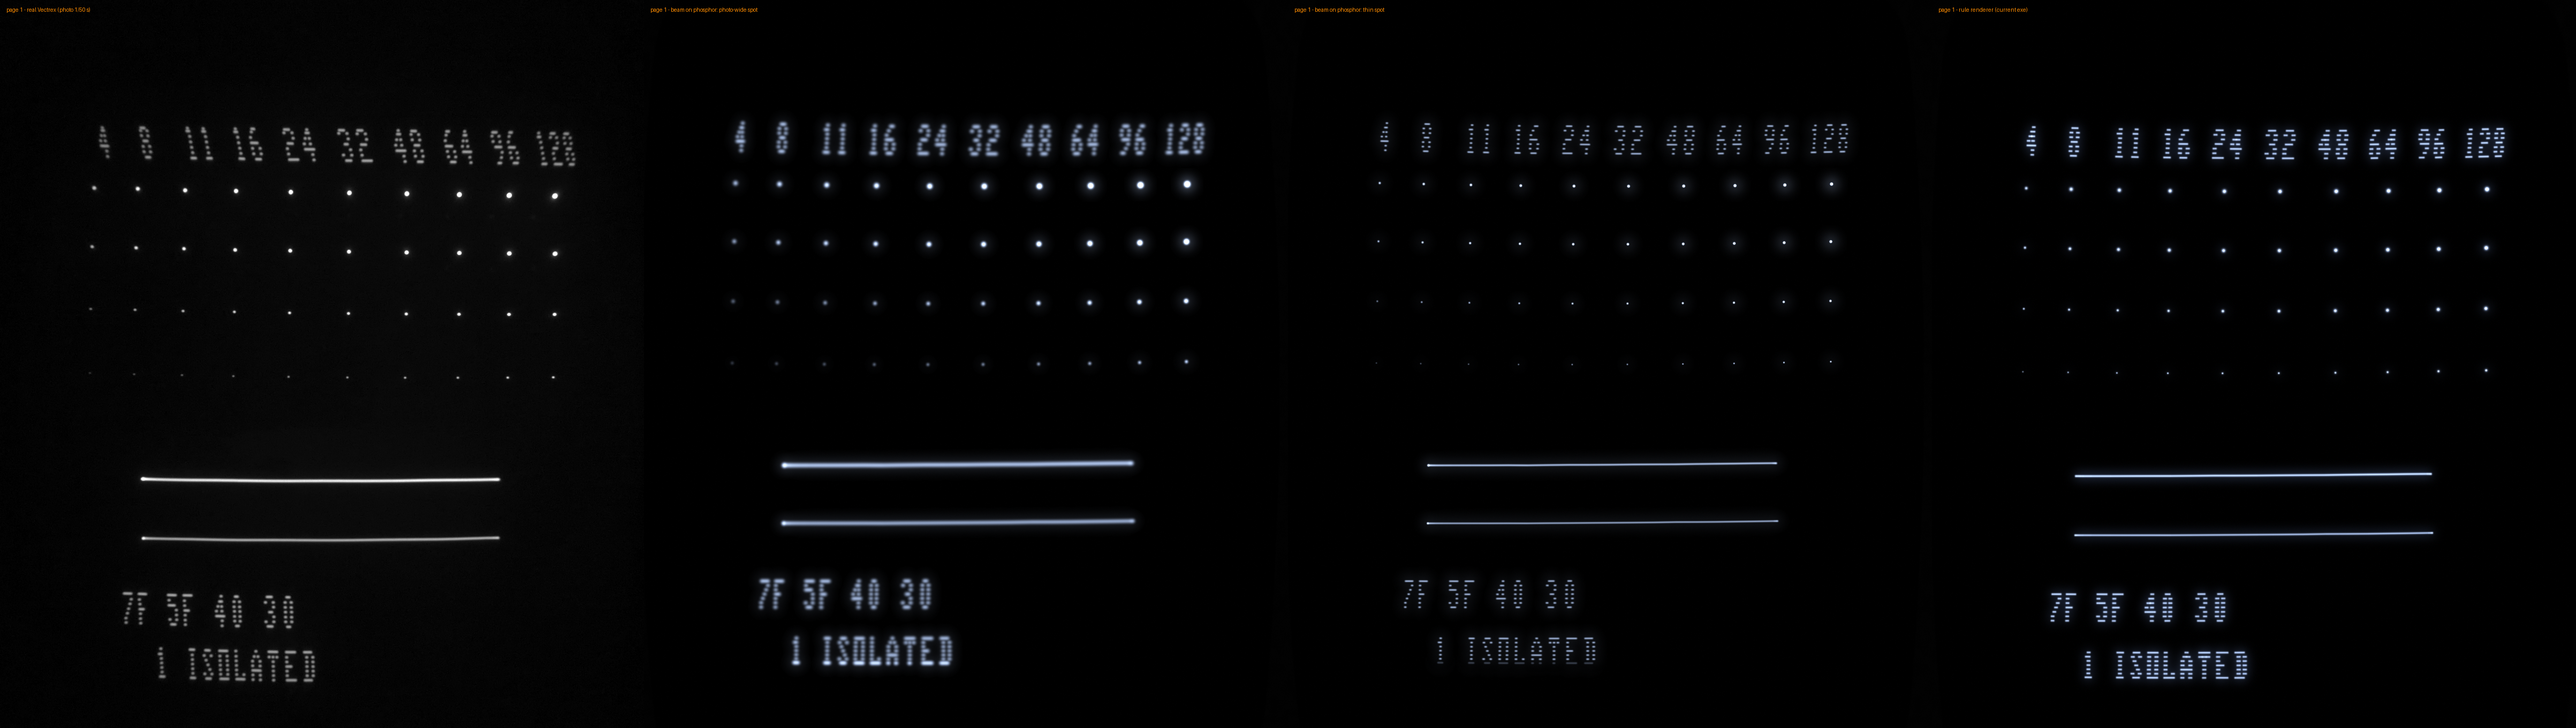
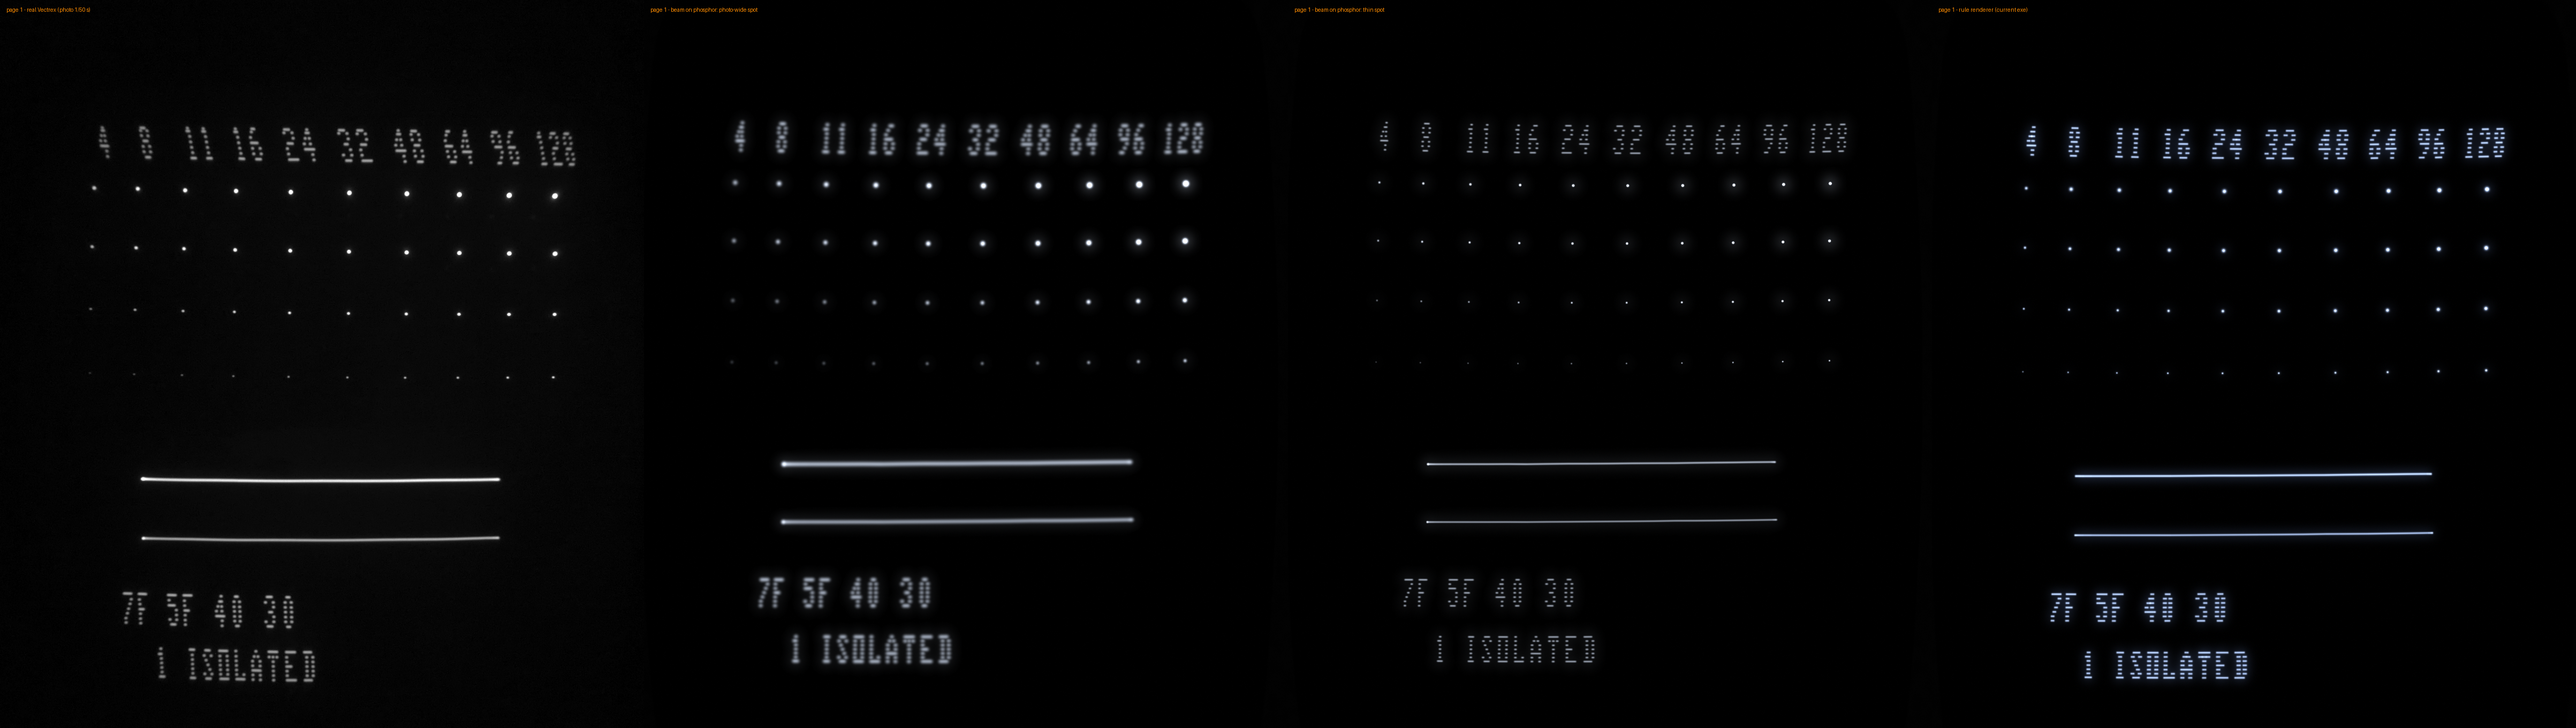
Beam trace: one cool white for cores and glow (30 % of the way to the White balance setting - 12000 K: ~8150 K; the glow's red 87 % of its blue, was 73 % beside near-neutral cores: the owner - the glow bluer than the lines); the phosphor step does not tint again in this mode. Core: VT_RAMPRC=tau,lev

diff --git a/src/frontend/vecrender.py b/src/frontend/vecrender.py
@@ -946,6 +946,10 @@ def bt_light(tl, l, t):
 BT_HALO_F, BT_HALO_S = 0.04, 1.4            # (the glass: this share of every piece's light spread wide - sigma, units; the photos'
                                             #  dots: 3-5 % of their light in a glow of sigma ~1.4 units)
 BT_SPOT = 1.0                               # (the spot's width x this; VX_BT_SPOT: tests - 2.5: as wide as through the photos' camera)
+BT_WB = 0.3                                 # (the beam on the phosphor: one cool white for cores and glow alike - this share of the
+                                            #  way from 6504 K to the White balance setting (12000 K: ~8150 K), red and green lowered, blue
+                                            #  full: ~15 % of the peak's brightness for a white that is cool at every level; the owner,
+                                            #  2026-11-21: the tube a blueish white, the glow was bluer than the lines)
 BT_KMAX = 512.0                             # (a piece's light goes to the GPU as a colour, clamped at 1: sent / BT_KMAX, SAT_SHADER x BT_KMAX)
 def bt_eta(tau):
     """the phosphor's light per cycle of beam, tau = the cycles a point stays under the spot (arrays)"""
@@ -3998,8 +4002,9 @@ class GLBloomRenderer(GLRenderer):
         self.ActiveTexture(0x84C2); gl.glBindTexture(GL_TEXTURE_2D, self.AG[1][a0][0]); self.ActiveTexture(0x84C0)
         self.UseProgram(self.sprog); self.Uniform1i(self.u_stex, 0); self._phos_uniforms(self.u_sh)
         self.Uniform1i(self.u_sh['g1'], 1); self.Uniform1i(self.u_sh['g2'], 2); self.Uniform1f(self.u_sh['pkd'], 0.0 if full else 1.0)
-        self.Uniform3f(self.u_sh['wb'], *self._wb())
-        self.Uniform3f(self.u_sh['wbc'], *self._wbc())
+        btm = getattr(self, 'beam_trace', False) and hasattr(self, 'satprog')   # (the beam on the phosphor: its white is in the light - BT_WB)
+        self.Uniform3f(self.u_sh['wb'], *((1.0, 1.0, 1.0) if btm else self._wb()))
+        self.Uniform3f(self.u_sh['wbc'], *((1.0, 1.0, 1.0) if btm else self._wbc()))
         self.Uniform1f(self.u_sh['acap'], getattr(self, 'phos_acap', PHOS_ACAP))
         self.Uniform1f(self.u_sh['lifta'], 0.0 if (self.art and self.art_on) else TRAIL_LIFT_A)   # (an overlay shown: its own look)
         self.Uniform1f(self.u_sh['sm'], PHOS_SMOOTH_MAX * min(1.0, getattr(self, 'phos_smooth', PHOS_SMOOTH)) * ph / 820.0
@@ -4030,8 +4035,10 @@ class GLBloomRenderer(GLRenderer):
         ex = float(os.environ.get('VX_BT_EXPO', BT_EXPO))    # (the exposure: light -> the screen; VX_BT_EXPO: tests)
         ex *= float(os.environ.get('VX_BT_SPOT', BT_SPOT))   # (a wider spot: its peak lower - the reference line stays at white)
         if self.vlook(): ex /= (LOOK_VSH if getattr(self, 'hdr_hk', 1.0) > 1.0 else LOOK_VS)   # (the tone step scales the light back)
-        self.Uniform1f(self.u_sat['k'], ex * BT_KMAX); self.Uniform3f(self.u_sat['wb'], *wb)
-        self.Uniform3f(self.u_sat['wbc'], *(self._wbc() if tuple(wb) != (1.0, 1.0, 1.0) else wb))
+        k = float(getattr(self, 'white_k', WHITE_DEFAULT))
+        t = white_gain(6504.0 + BT_WB * (k - 6504.0)); t = tuple(v / max(t) for v in t)   # (see BT_WB)
+        self.Uniform1f(self.u_sat['k'], ex * BT_KMAX); self.Uniform3f(self.u_sat['wb'], *t)
+        self.Uniform3f(self.u_sat['wbc'], *t)
         self._quad(tex)
         self.UseProgram(0)
 

diff --git a/src/core/vecx.c b/src/core/vecx.c
@@ -1660,6 +1660,14 @@ static void alg_sstep_full (void)
 	 * real Mine Storm (2026-10-12) - the ship's lines ~20 % short, the mothership's corners open now and
 	 * then (on the tube less visibly). */
 	double ramp_part = 1.0;                             /* (the last, fractional cycle of a stop delay) */
+	/* VT_RAMPRC=tau,level (a test switch, 2026-11-21): the RAMP line reaches the integrators' switch through an RC - the
+	 * switch closes while its control is above the level. A short RAMP-off pulse does not open it (the owner's Dot Test
+	 * page 4: a corner with a rest of 8 cycles as round as with none, 16 cycles half, 32 sharp - no lag of the spot gives
+	 * that); a long one stops the integrators tau ln (1 / level) cycles late, they start -tau ln (1 - level) late.
+	 * Instead of the fixed start / stop delays below */
+	{ static double rg_tau = -1, rg_lev = 0.4, rg_v = 0, rg_k = 0;
+	  if (rg_tau < 0) { const char *z = getenv ("VT_RAMPRC"); rg_tau = 0; if (z) { sscanf (z, "%lf,%lf", &rg_tau, &rg_lev); if (rg_tau > 0) rg_k = 1.0 - exp (-1.0 / rg_tau); } }
+	  if (rg_tau > 0) { rg_v += ((sig_ramp ? 0.0 : 1.0) - rg_v) * rg_k; sig_ramp = rg_v > rg_lev ? 0 : 0x80; } else
 	{
 	  sd_hist[hp++ & 63] = (sig_ramp ? 1 : 0) | ((via_acr & 0x80) ? 2 : 0);
 	  if (alg_rdly_on | alg_rdly_off) {
@@ -1678,7 +1686,7 @@ static void alg_sstep_full (void)
 		}
 		#undef RAMP_ACT
 		sig_ramp = act ? 0 : 0x80;
-	  } }
+	  } } }
 
 	if (zero_tx < 0) { const char *z = getenv ("VT_ZERON"); zero_n = z ? atoi (z) : ZERO_N; z = getenv ("VT_ZEROTAU"); zero_tx = ZERO_TX; zero_ty = ZERO_TY;
 	                   if (z) { double a = 0, b = -1; sscanf (z, "%lf,%lf", &a, &b); zero_tx = a; zero_ty = b < 0 ? a : b; } }
